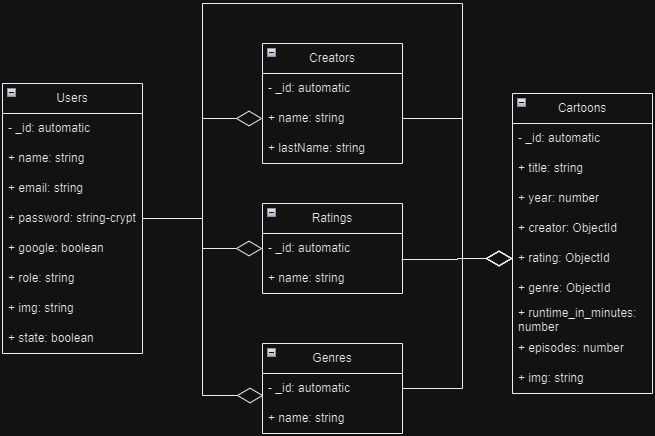
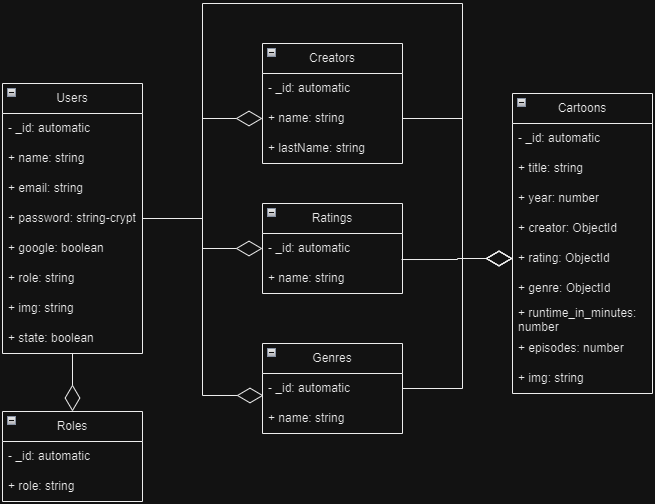
Finalización de CRUD para el modelo de usuarios

diff --git a/controllers/users.js b/controllers/users.js
@@ -1,19 +1,48 @@
 import { request, response } from 'express'
+import { User } from '../models/user.js'
+import bcryptjs from 'bcryptjs'
 
-export const usersGet = (req = request, res = response) => {
-    res.json({ msg: 'Get API - Controller' })
+export const usersGet = async(req = request, res = response) => {
+    const { limit = 2, from = 0 } = req.query
+    const query = { state: true }
+    const users = await User.find(query).skip(Number(from)).limit(Number(limit))
+    const total = await User.countDocuments(query)
+    
+    res.status(200).json({
+        total,
+        users
+    })
 }
 
-export const usersPost = (req = request, res = response) => {
-    const { name, lastName } = req.body
-    res.json({ msg: 'Post API - Controller', name, lastName })
+export const usersPost = async(req = request, res = response) => {
+    const { name, email, password, role } = req.body
+    const user = new User({ name, email, password, role })
+    // Encrypt password
+    const salt = bcryptjs.genSaltSync(10)
+    user.password = bcryptjs.hashSync(password, salt)
+
+    await user.save()
+    res.status(201).json({ user })
 }
 
-export const usersPut = (req = request, res = response) => {
-    const id = req.params.id
-    res.json({ msg: 'Put API - Controller', id })
+export const usersPut = async(req = request, res = response) => {
+    const { id } = req.params
+    const { _id, email, password, google, ...rest } = req.body // Fields that cannot be modified
 
+    if(password) {
+        const salt = bcryptjs.genSaltSync(10)
+        rest.password = bcryptjs.hashSync(password, salt)
+    }
+
+    const user = await User.findByIdAndUpdate(id, rest, { new: true })
+
+    res.status(200).json({ user })
 }
-export const usersDelete = (req = request, res = response) => {
-    res.json({ msg: 'Delete API - Controller' })
+
+export const usersDelete = async(req = request, res = response) => {
+    const { id } = req.params
+
+    const user = await User.findByIdAndUpdate(id, { state: false }, { new: true }) // The record is not deleted, only the status is modified
+
+    res.status(200).json({ user })
 }

diff --git a/routes/users.js b/routes/users.js
@@ -1,12 +1,30 @@
+import { check } from 'express-validator'
+import { emailExists, isValidRole, userIDExists } from '../helpers/db-validators.js'
 import { Router } from 'express'
 import { usersDelete, usersGet, usersPost, usersPut } from '../controllers/users.js'
+import { validateFields } from '../middlewares/validate-fields.js'
 
 export const routerUser = new Router()
 
 routerUser.get('/', usersGet)
 
-routerUser.post('/', usersPost)
+routerUser.post('/', [
+    check('name', 'The name is required').not().isEmpty(),
+    check('email', 'The email is not valid').isEmail(),
+    check('email', 'The email is not valid').custom(emailExists),
+    check('password', 'The password must be more than 6 characters long').isLength({ min: 6 }),
+    check('role').custom(isValidRole),
+    validateFields
+], usersPost)
 
-routerUser.put('/:id', usersPut)
+routerUser.put('/:id', [
+    check('id', 'The ID is not valid').isMongoId(),
+    check('role').custom(isValidRole),
+    validateFields
+], usersPut)
 
-routerUser.delete('/', usersDelete)
+routerUser.delete('/:id', [
+    check('id', 'The ID is not valid').isMongoId(),
+    check('id').custom(userIDExists),
+    validateFields
+], usersDelete)

diff --git a/models/user.js b/models/user.js
@@ -1,0 +1,42 @@
+import { model, Schema } from 'mongoose'
+
+const UserSchema = new Schema({
+    name: {
+        type: String,
+        required: [ true, 'The name field is required' ]
+    },
+    email: {
+        type: String,
+        required: [ true, 'The email field is required' ],
+        unique: true
+    },
+    password: {
+        type: String,
+        required: [ true, 'The password field is required' ]
+    },
+    img: {
+        type: String
+    },
+    role: {
+        type: String,
+        required: true,
+        enum: [ 'ADMIN_ROLE', 'USER_ROLE', 'SALES_ROLE' ]
+    },
+    state: {
+        type: Boolean,
+        default: true
+    },
+    google: {
+        type: Boolean,
+        default: false
+    }
+})
+
+UserSchema.methods.toJSON = function() {
+    const { __v, password, _id, ...user } = this.toObject()
+    user.uid = _id
+
+    return user
+}
+
+export const User = model('User', UserSchema)

diff --git a/helpers/db-validators.js b/helpers/db-validators.js
@@ -1,0 +1,20 @@
+import { Role } from '../models/role.js'
+import { User } from '../models/user.js'
+
+export const isValidRole = async (role = '') => {
+    const existRole = await Role.findOne({ name: role })
+
+    if(!existRole) throw new Error(`The role ${role} is not registered in the database`)
+}
+
+export const emailExists = async (email = '') => {
+    const exists = await User.findOne({ email })
+
+    if(exists) throw new Error(`The email ${email} is not valid because it is registered in the database`)
+}
+
+export const userIDExists = async (id = '') => {
+    const exists = await User.findById(id)
+
+    if(!exists) throw new Error(`The ID ${id} does not exist in the database`)
+}

diff --git a/middlewares/validate-fields.js b/middlewares/validate-fields.js
@@ -1,0 +1,9 @@
+import { validationResult } from 'express-validator'
+
+export const validateFields = (req, res, next) => {
+    const errors = validationResult(req)
+
+    if(!errors.isEmpty()) return res.status(400).json(errors)
+
+    next()
+}

diff --git a/models/role.js b/models/role.js
@@ -1,0 +1,10 @@
+import { Schema, model } from 'mongoose'
+
+const RoleSchema = new Schema({
+    name: {
+        type: String,
+        required: [ true, 'The role is required' ]
+    }
+})
+
+export const Role = model('Role', RoleSchema)

diff --git a/README.md b/README.md
@@ -9,6 +9,8 @@ Para iniciar el proyecto se necesita instalar las siguientes dependencias:
 4. ```npm install dotenv``` Es un módulo de dependencia cero que carga variables de entorno de un archivo .env en process.env
 5. ```npm install cors``` Permite proteger un servidor
 6. ```npm install mongoose``` Permite consultar y escribir en la base de datos de MongoDB
+7. ```npm install bcryptjs``` Permite encriptar contraseñas
+8. ```npm install express-validator``` Permite validar peticiones de express
 
 ## ¿Cómo ejecutar el código?
 Para ejecutar o correr el proyecto se debe usar el comando ```nodemon app```, sin embargo en mi caso debo usar ```npx nodemon app```
@@ -20,6 +22,8 @@ Para ejecutar o correr el proyecto se debe usar el comando ```nodemon app```, si
 4. [Dotenv](https://www.npmjs.com/package/dotenv/v/14.0.0)
 5. [CORS](https://www.npmjs.com/package/cors)
 6. [Mongoose](https://mongoosejs.com/docs/)
+7. [BcryptJS](https://www.npmjs.com/package/bcryptjs)
+8. [Express Validator](https://express-validator.github.io/docs)
 
 ### **Nota:**
 1. Recordar que al descargar el código se debe ejecutar el comando ```npm install``` para la construcción de los diferentes módulos
